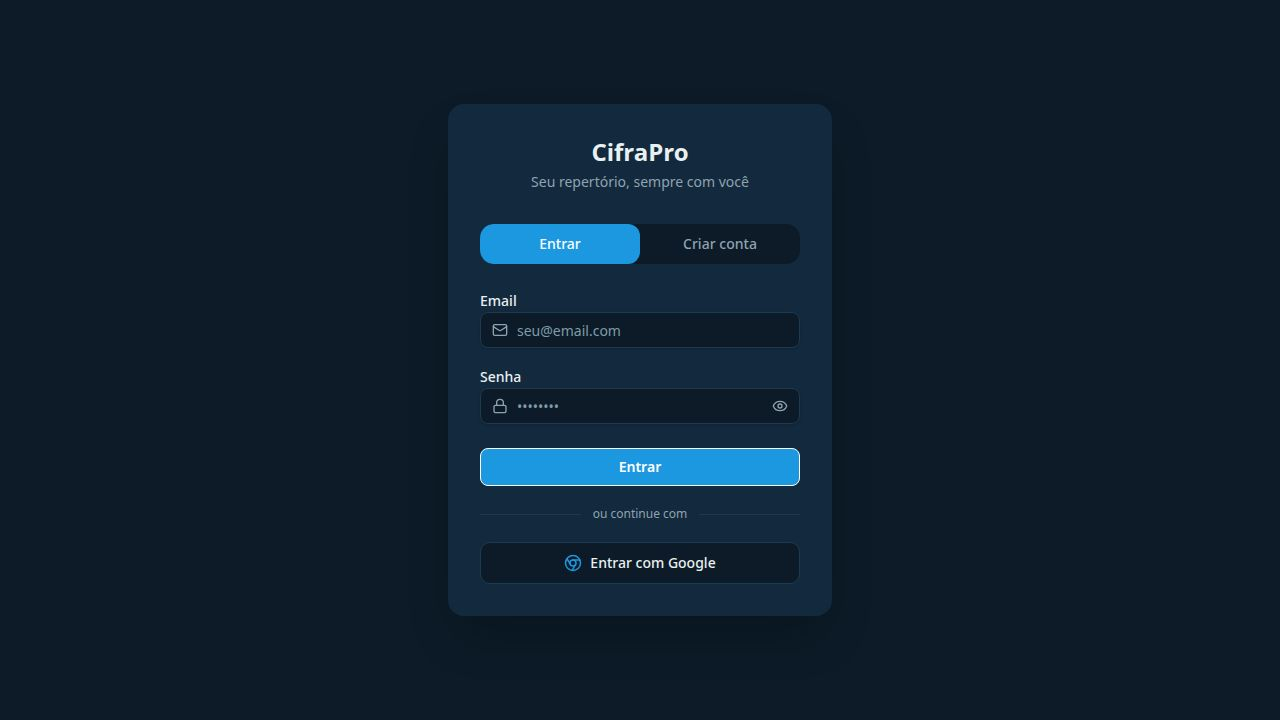
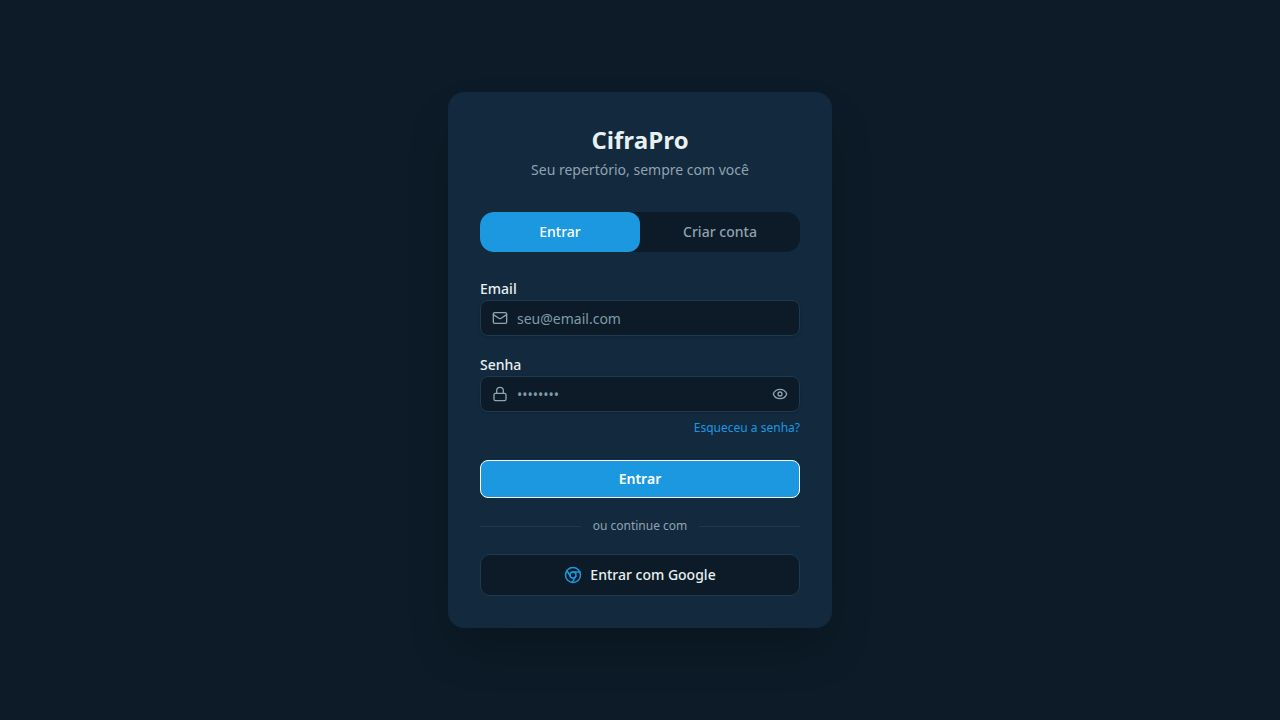
Update user profile page with account, notification, privacy, and about sections
Implement user profile page with account management, notification preferences, privacy settings, and app information sections. Includes data export/deletion functionality and fixes for confirmation modals.

Replit-Commit-Author: Agent
Replit-Commit-Session-Id: 40f33cc3-e30f-4f83-a234-3d25f8cd820b
Replit-Commit-Checkpoint-Type: full_checkpoint
Replit-Commit-Event-Id: fcb85c33-5402-4e8b-bda7-5a83704f8d38
Replit-Commit-Screenshot-Url: https://storage.googleapis.com/screenshot-production-us-central1/b3854a7c-0e72-451b-8723-e091cb2fa83c/40f33cc3-e30f-4f83-a234-3d25f8cd820b/F46tOsJ
Replit-Helium-Checkpoint-Created: true

diff --git a/artifacts/cifrapro/src/pages/Perfil.tsx b/artifacts/cifrapro/src/pages/Perfil.tsx
@@ -60,10 +60,11 @@ export default function Perfil() {
 
   // Delete all data modal
   const [deleteDataOpen, setDeleteDataOpen] = useState(false);
+  const [deleteDataConfirmText, setDeleteDataConfirmText] = useState('');
 
-  // Notifications
-  const [notifNews, setNotifNews] = useState(false);
-  const [notifTips, setNotifTips] = useState(false);
+  // Notifications — initialized from profile (Supabase)
+  const [notifNews, setNotifNews] = useState(profile.notifNews ?? false);
+  const [notifTips, setNotifTips] = useState(profile.notifTips ?? false);
 
   const fileInputRef = useRef<HTMLInputElement>(null);
   const dataInputRef = useRef<HTMLInputElement>(null);
@@ -206,6 +207,17 @@ export default function Perfil() {
     resetAllData();
     toast.success("Todos os dados foram apagados.");
     setDeleteDataOpen(false);
+    setDeleteDataConfirmText('');
+  };
+
+  const handleNotifNewsChange = (value: boolean) => {
+    setNotifNews(value);
+    updateProfile({ notifNews: value });
+  };
+
+  const handleNotifTipsChange = (value: boolean) => {
+    setNotifTips(value);
+    updateProfile({ notifTips: value });
   };
 
   return (
@@ -226,6 +238,12 @@ export default function Perfil() {
             </div>
 
             <div className="space-y-4">
+              {profile.name && (
+                <div>
+                  <p className="text-sm" style={{ color: '#8FA3B1' }}>Nome</p>
+                  <p className="font-medium" style={{ color: '#E9F0F1' }}>{profile.name}</p>
+                </div>
+              )}
               <div>
                 <p className="text-sm" style={{ color: '#8FA3B1' }}>Email</p>
                 <p className="font-medium" style={{ color: '#E9F0F1' }}>{user.email}</p>
@@ -364,7 +382,7 @@ export default function Perfil() {
                 <p className="text-sm font-medium" style={{ color: '#E9F0F1' }}>Novidades e atualizações do CifraPro</p>
                 <p className="text-xs mt-0.5" style={{ color: '#8FA3B1' }}>Fique por dentro das novas funcionalidades</p>
               </div>
-              <ToggleSwitch enabled={notifNews} onChange={setNotifNews} />
+              <ToggleSwitch enabled={notifNews} onChange={handleNotifNewsChange} />
             </div>
 
             <div className="h-px" style={{ backgroundColor: '#1E3A50' }} />
@@ -374,7 +392,7 @@ export default function Perfil() {
                 <p className="text-sm font-medium" style={{ color: '#E9F0F1' }}>Dicas de uso</p>
                 <p className="text-xs mt-0.5" style={{ color: '#8FA3B1' }}>Sugestões para aproveitar melhor o app</p>
               </div>
-              <ToggleSwitch enabled={notifTips} onChange={setNotifTips} />
+              <ToggleSwitch enabled={notifTips} onChange={handleNotifTipsChange} />
             </div>
           </div>
         </section>
@@ -646,7 +664,7 @@ export default function Perfil() {
         isOpen={deleteAccountOpen}
         onClose={() => { setDeleteAccountOpen(false); setDeleteConfirmText(''); }}
         title="Excluir Conta"
-        onConfirm={deleteConfirmText === 'EXCLUIR' ? handleDeleteAccount : undefined}
+        onConfirm={deleteConfirmText === 'EXCLUIR CONTA' ? handleDeleteAccount : undefined}
         confirmLabel={deletingAccount ? "Excluindo..." : "Excluir conta"}
         cancelLabel="Cancelar"
         confirmDestructive
@@ -657,12 +675,12 @@ export default function Perfil() {
           </p>
           <div className="space-y-1.5">
             <Label style={{ color: '#E9F0F1' }}>
-              Digite <strong>EXCLUIR</strong> para confirmar
+              Digite <strong>EXCLUIR CONTA</strong> para confirmar
             </Label>
             <Input
               value={deleteConfirmText}
               onChange={(e) => setDeleteConfirmText(e.target.value)}
-              placeholder="EXCLUIR"
+              placeholder="EXCLUIR CONTA"
               style={INPUT_STYLE}
             />
           </div>
@@ -672,9 +690,9 @@ export default function Perfil() {
       {/* === MODAL: Excluir todos os dados === */}
       <Modal
         isOpen={deleteDataOpen}
-        onClose={() => setDeleteDataOpen(false)}
+        onClose={() => { setDeleteDataOpen(false); setDeleteDataConfirmText(''); }}
         title="Excluir todos os dados"
-        onConfirm={handleDeleteAllData}
+        onConfirm={deleteDataConfirmText === 'EXCLUIR' ? handleDeleteAllData : undefined}
         confirmLabel="Apagar tudo"
         cancelLabel="Cancelar"
         confirmDestructive
@@ -686,6 +704,17 @@ export default function Perfil() {
           <p className="text-sm font-medium text-red-400">
             Esta ação não pode ser desfeita. Faça um backup antes de continuar.
           </p>
+          <div className="space-y-1.5">
+            <Label style={{ color: '#E9F0F1' }}>
+              Digite <strong>EXCLUIR</strong> para confirmar
+            </Label>
+            <Input
+              value={deleteDataConfirmText}
+              onChange={(e) => setDeleteDataConfirmText(e.target.value)}
+              placeholder="EXCLUIR"
+              style={INPUT_STYLE}
+            />
+          </div>
         </div>
       </Modal>
     </div>

diff --git a/artifacts/cifrapro/src/store/useAppStore.ts b/artifacts/cifrapro/src/store/useAppStore.ts
@@ -54,7 +54,7 @@ async function getCurrentUserId(): Promise<string | null> {
 export const useAppStore = create<AppState>()((set, get) => ({
   cifras: [],
   hinarios: [],
-  profile: { name: "", photoUrl: null, theme: "dark" },
+  profile: { name: "", photoUrl: null, theme: "dark", notifNews: false, notifTips: false },
 
   loadFromSupabase: async (userId: string) => {
     const [cifrasRes, hinariosRes, profileRes] = await Promise.all([
@@ -71,12 +71,18 @@ export const useAppStore = create<AppState>()((set, get) => ({
       cifras,
       hinarios,
       profile: profileRow
-        ? { name: profileRow.name ?? "", photoUrl: profileRow.photo_url ?? null, theme: profileRow.theme ?? "dark" }
-        : { name: "", photoUrl: null, theme: "dark" },
+        ? {
+            name: profileRow.name ?? "",
+            photoUrl: profileRow.photo_url ?? null,
+            theme: profileRow.theme ?? "dark",
+            notifNews: profileRow.notif_news ?? false,
+            notifTips: profileRow.notif_tips ?? false,
+          }
+        : { name: "", photoUrl: null, theme: "dark", notifNews: false, notifTips: false },
     });
   },
 
-  clearData: () => set({ cifras: [], hinarios: [], profile: { name: "", photoUrl: null, theme: "dark" } }),
+  clearData: () => set({ cifras: [], hinarios: [], profile: { name: "", photoUrl: null, theme: "dark", notifNews: false, notifTips: false } }),
 
   addCifra: async (cifraData) => {
     const userId = await getCurrentUserId();
@@ -258,6 +264,8 @@ export const useAppStore = create<AppState>()((set, get) => ({
         name: profile.name,
         photo_url: profile.photoUrl,
         theme: profile.theme,
+        notif_news: profile.notifNews,
+        notif_tips: profile.notifTips,
       });
     });
   },
@@ -316,6 +324,6 @@ export const useAppStore = create<AppState>()((set, get) => ({
       supabase.from("profiles").delete().eq("user_id", userId),
     ]);
 
-    set({ cifras: [], hinarios: [], profile: { name: "", photoUrl: null, theme: "dark" } });
+    set({ cifras: [], hinarios: [], profile: { name: "", photoUrl: null, theme: "dark", notifNews: false, notifTips: false } });
   },
 }));

diff --git a/artifacts/cifrapro/src/types/index.ts b/artifacts/cifrapro/src/types/index.ts
@@ -19,4 +19,6 @@ export interface UserProfile {
   name: string;
   photoUrl: string | null;
   theme: "dark" | "light";
+  notifNews: boolean;
+  notifTips: boolean;
 }